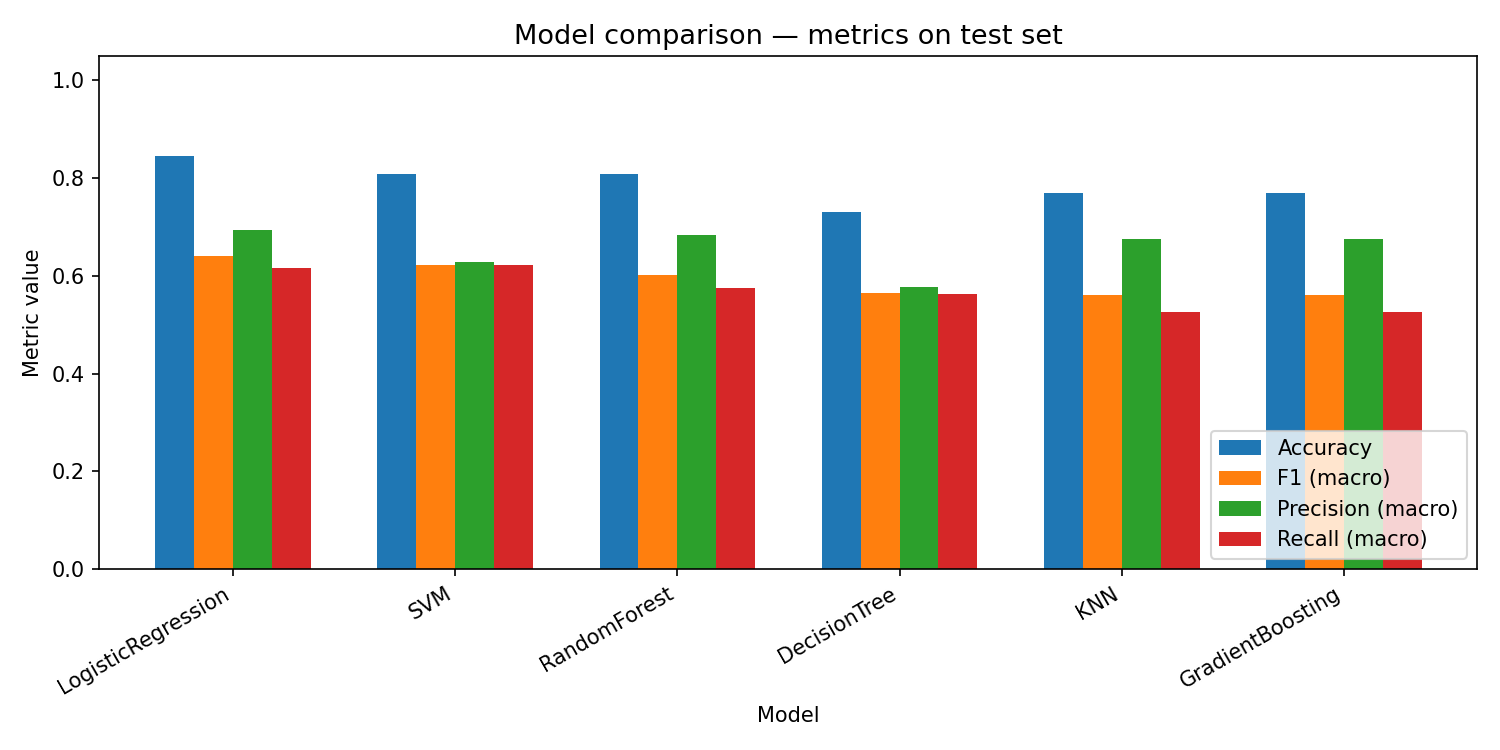
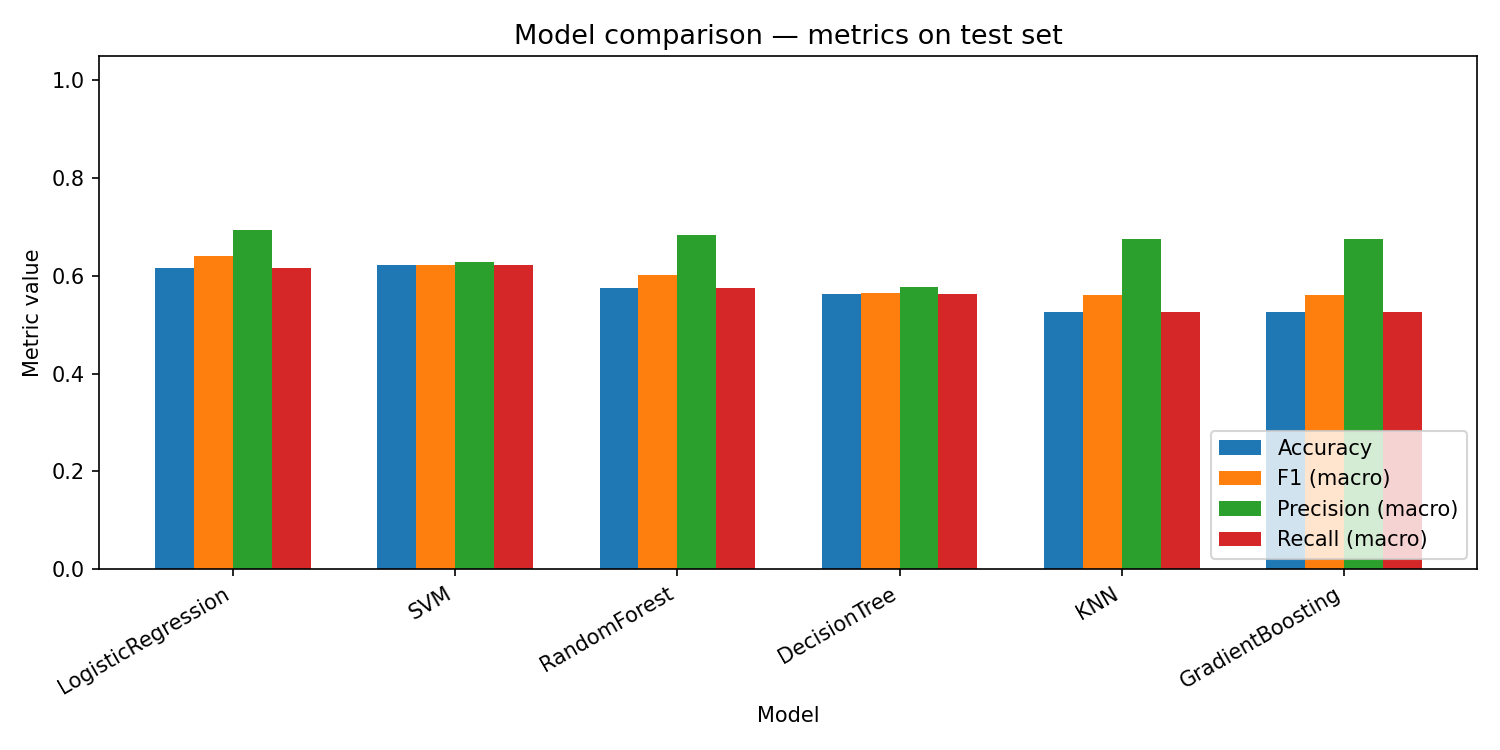
Balanced accuracy score & default data path

diff --git a/src/evaluate.py b/src/evaluate.py
@@ -3,7 +3,7 @@ import pandas as pd
 import matplotlib.pyplot as plt
 import seaborn as sns
 from sklearn.metrics import (
-    accuracy_score,
+    balanced_accuracy_score,
     f1_score,
     precision_score,
     recall_score,
@@ -34,7 +34,7 @@ def evaluate_models(
     for name, model in models.items():
         y_pred = model.predict(X_test)
 
-        acc       = accuracy_score(y_test, y_pred)
+        acc       = balanced_accuracy_score(y_test, y_pred) # number of classes is not balanced
         f1        = f1_score(y_test, y_pred, average="macro", zero_division=0)
         precision = precision_score(y_test, y_pred, average="macro", zero_division=0)
         recall    = recall_score(y_test, y_pred, average="macro", zero_division=0)
@@ -42,7 +42,7 @@ def evaluate_models(
         print(f"\n{'='*50}")
         print(f"  {name}")
         print(f"{'='*50}")
-        print(f"  Accuracy:          {acc:.4f}")
+        print(f"  Balanced accuracy:          {acc:.4f}")
         print(f"  F1 (macro):        {f1:.4f}")
         print(f"  Precision (macro): {precision:.4f}")
         print(f"  Recall (macro):    {recall:.4f}")
@@ -50,7 +50,7 @@ def evaluate_models(
 
         rows.append({
             "Model":             name,
-            "Accuracy":          round(acc, 4),
+            "Balanced accuracy":          round(acc, 4),
             "F1 (macro)":        round(f1, 4),
             "Precision (macro)": round(precision, 4),
             "Recall (macro)":    round(recall, 4),
@@ -101,7 +101,7 @@ def _save_confusion_matrix(y_test, y_pred, name: str, results_dir: str):
 
 
 def _save_comparison_chart(df: pd.DataFrame, results_dir: str):
-    metrics = ["Accuracy", "F1 (macro)", "Precision (macro)", "Recall (macro)"]
+    metrics = ["Balanced accuracy", "F1 (macro)", "Precision (macro)", "Recall (macro)"]
     df_plot = df.set_index("Model")[metrics]
 
     fig, ax = plt.subplots(figsize=(10, 5))

diff --git a/src/train.py b/src/train.py
@@ -19,11 +19,11 @@ def cross_validate_models(models: dict, X_train, y_train, n_splits: int = 5) -> 
     Performs stratified k-fold cross-validation on the training set.
     Results are returned as a DataFrame.
 
-    Metrics: accuracy, macro F1, macro Precision, macro Recall
+    Metrics: balanced accuracy, macro F1, macro Precision, macro Recall
     """
     cv = StratifiedKFold(n_splits=n_splits, shuffle=True, random_state=42)
     scoring = {
-        "accuracy": "accuracy",
+        "balanced_accuracy": "balanced_accuracy",
         "f1_macro": "f1_macro",
         "precision_macro": "precision_macro",
         "recall_macro": "recall_macro",
@@ -35,8 +35,8 @@ def cross_validate_models(models: dict, X_train, y_train, n_splits: int = 5) -> 
         scores = cross_validate(model, X_train, y_train, cv=cv, scoring=scoring, n_jobs=-1)
         rows.append({
             "Model":           name,
-            "CV Accuracy":     round(np.mean(scores["test_accuracy"]), 4),
-            "CV Accuracy std": round(np.std(scores["test_accuracy"]), 4),
+            "CV Balanced accuracy":     round(np.mean(scores["test_balanced_accuracy"]), 4),
+            "CV Balanced accuracy std": round(np.std(scores["test_balanced_accuracy"]), 4),
             "CV F1 (macro)":   round(np.mean(scores["test_f1_macro"]), 4),
             "CV F1 std":       round(np.std(scores["test_f1_macro"]), 4),
             "CV Precision":    round(np.mean(scores["test_precision_macro"]), 4),

diff --git a/main.py b/main.py
@@ -61,6 +61,6 @@ def main(data_path: str):
 
 if __name__ == "__main__":
     parser = argparse.ArgumentParser(description="BloodTest Classification Pipeline")
-    parser.add_argument("--data", required=True, help="Path to the CSV data file")
+    parser.add_argument("--data", required=False, default="data/kantesti_global_health_insights_2025_2026.csv", help="Path to the CSV data file")
     args = parser.parse_args()
     main(args.data)